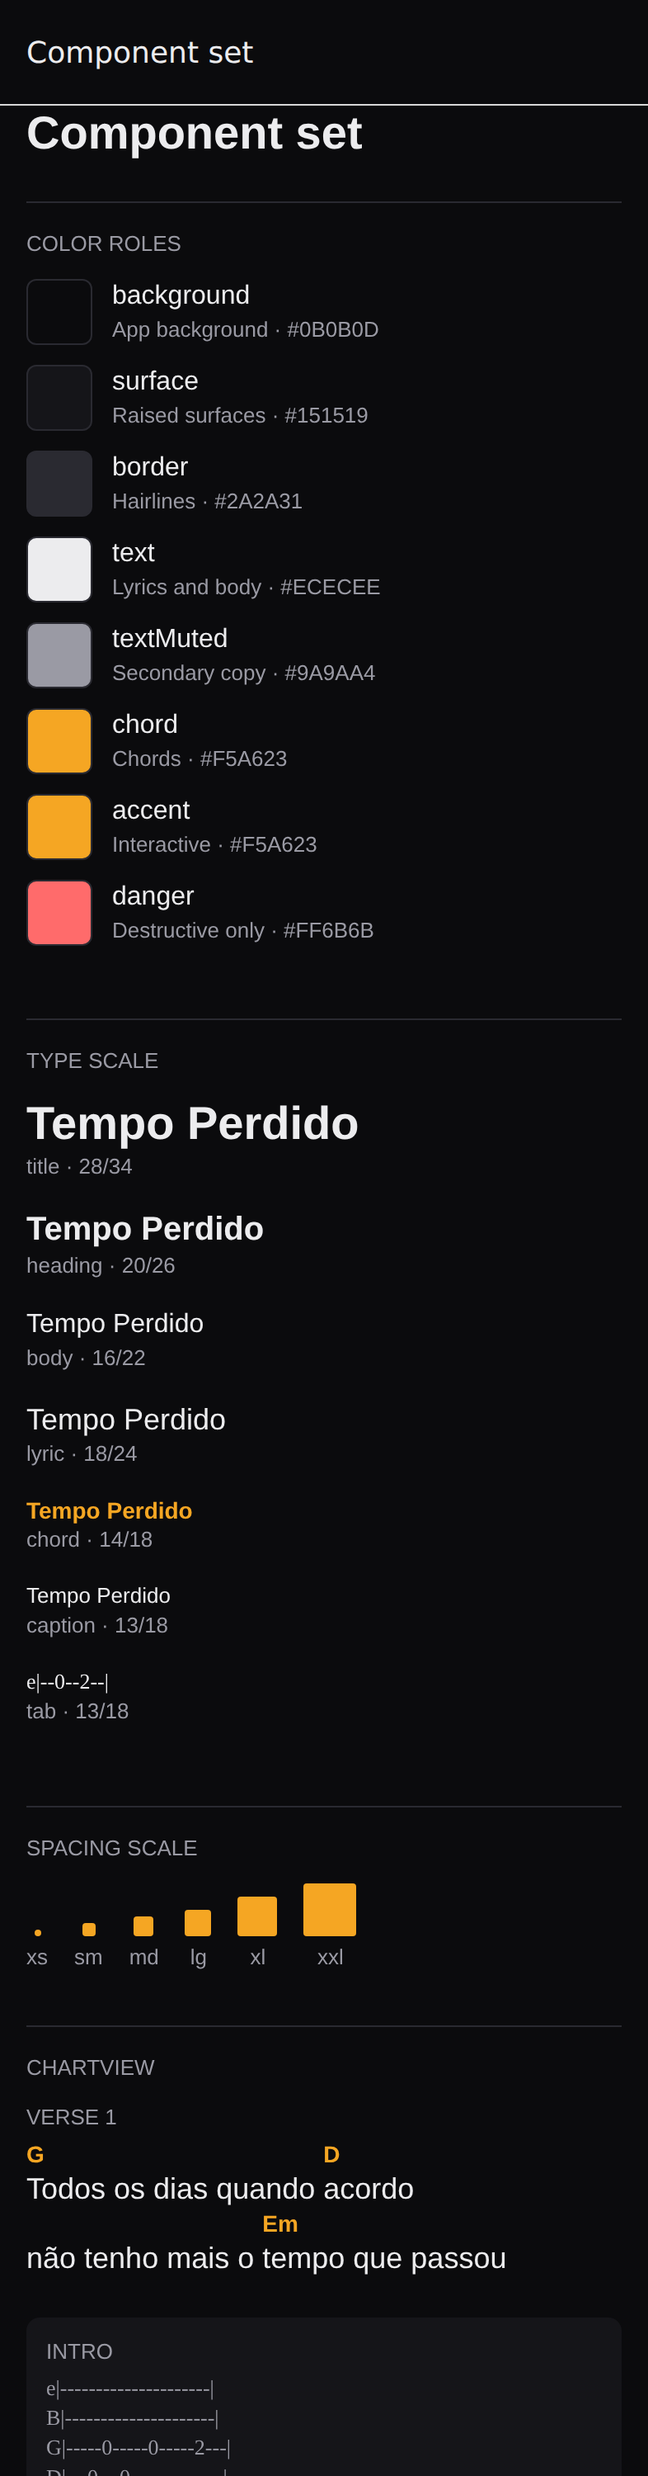
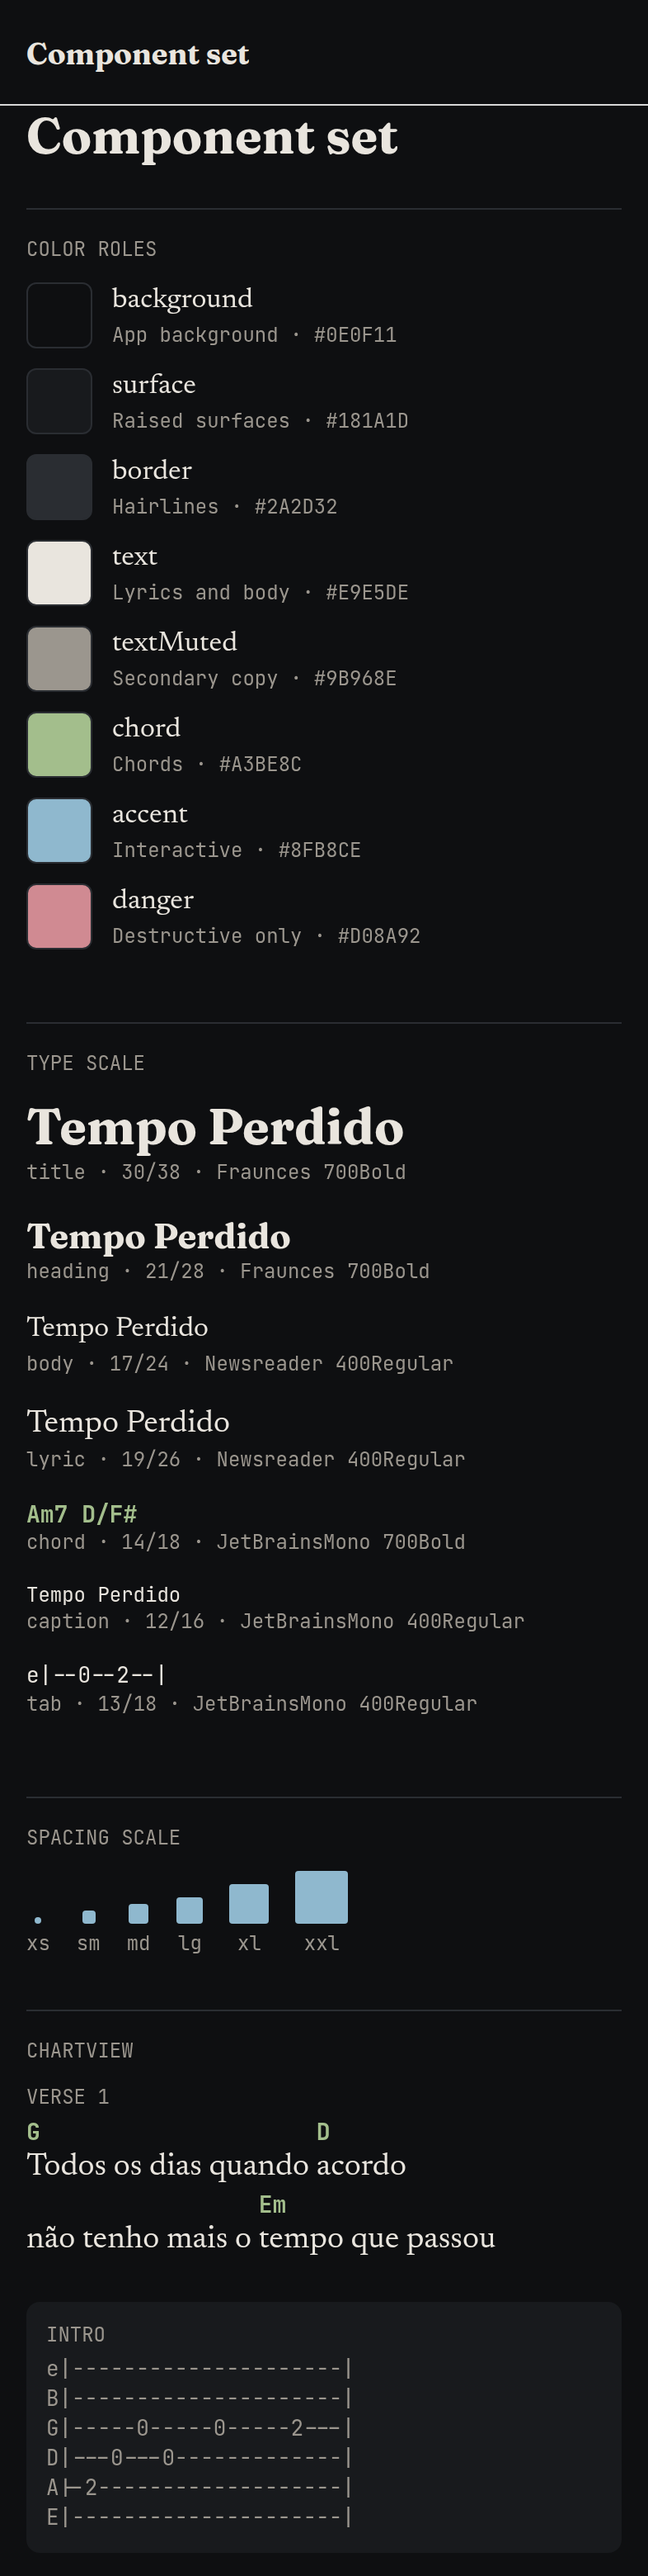
feat(mobile): replace the palette and adopt real typefaces
The system sans and the orange accent both made the app read as generic. Two
changes, one intent: give qtdn a voice instead of a default.

Typefaces are assigned by what the text is, not where it sits. Fraunces for
display, because a variable serif with character in its shapes is the cheapest
way for an app to sound like something. Newsreader for lyrics, which is the text
you read continuously while your hands are busy. JetBrains Mono for chords and
tabs, because both are notation rather than prose — one monospaced voice makes
that distinction visible, and chord glyphs get predictable width above the lyric.

Weight lives in the family name, since each weight is a separately loaded file;
pairing these with fontWeight would synthesize bold on top of bold.

The palette drops orange entirely and warms the greys toward paper rather than
slate, so a screen of lyrics reads like a songbook at night. Chords are sage and
interactive affordances are blue — previously both were the same orange, which
meant the one color that should say "chord" also said "button". Every role is
measured against the background and clears WCAG AA; the ratios are recorded
beside each value.

Fonts load in the root layout behind the splash screen, and a load failure hides
the splash anyway rather than leaving the user staring at it.

Claude-Session: https://claude.ai/code/session_01UvwVhADZoQ7MJJbPAnnoZA

diff --git a/apps/mobile/src/ui/tokens.ts b/apps/mobile/src/ui/tokens.ts
@@ -2,29 +2,36 @@
  * The design system's single source of truth.
  *
  * This is the only file in the app permitted to contain a raw color literal; the
- * `qtdn/design-tokens` lint rule rejects them everywhere else. Names are semantic
- * (`color.chord`, not `orange500`) so re-theming is a change here and nowhere else.
+ * design-token lint rule rejects them everywhere else. Names are semantic
+ * (`color.chord`, not `sage500`) so re-theming is a change here and nowhere else.
  *
  * Dark-first: qtdn is read at arm's length, in dim rooms, while both hands are busy.
  */
 
+/**
+ * Palette.
+ *
+ * Warm rather than clinical — the greys lean toward paper, not toward slate, so a
+ * screen full of lyrics reads like a songbook at night instead of a terminal.
+ * Contrast ratios are measured against `background` and all clear WCAG AA (4.5:1).
+ */
 export const color = {
-  /** App background. Near-black rather than pure black, to soften OLED smearing. */
-  background: '#0B0B0D',
-  /** Raised surfaces: cards, sheets, the keyboard accessory bar. */
-  surface: '#151519',
+  /** App background. Near-black, slightly warm, to soften OLED smearing. */
+  background: '#0E0F11',
+  /** Raised surfaces: tab blocks, cards, sheets, the keyboard accessory bar. */
+  surface: '#181A1D',
   /** Hairlines and dividers. */
-  border: '#2A2A31',
-  /** Lyrics and body copy. 13.9:1 on `background`. */
-  text: '#ECECEE',
-  /** Secondary copy: folder counts, timestamps, section labels. 5.6:1 on `background`. */
-  textMuted: '#9A9AA4',
-  /** Chords. The one saturated color in the app, so the eye finds them instantly. */
-  chord: '#F5A623',
-  /** Interactive accent: primary buttons, selection, the auto-scroll control. */
-  accent: '#F5A623',
-  /** Destructive actions only. */
-  danger: '#FF6B6B',
+  border: '#2A2D32',
+  /** Lyrics and body copy. Warm off-white — paper, not printer paper. 15.3:1. */
+  text: '#E9E5DE',
+  /** Secondary copy: folder counts, timestamps, section labels. 6.5:1. */
+  textMuted: '#9B968E',
+  /** Chords. The one color in the app that means "chord" and nothing else. 9.4:1. */
+  chord: '#A3BE8C',
+  /** Interactive only: buttons, selection, the auto-scroll control. 9.1:1. */
+  accent: '#8FB8CE',
+  /** Destructive actions only. 7.1:1. */
+  danger: '#D08A92',
 } as const;
 
 /** 4pt base scale. Every margin and padding in the app comes from here. */
@@ -47,20 +54,43 @@ export const radius = {
 export const HIT_SLOP = 44;
 
 /**
+ * Typefaces, assigned by what the text *is* rather than by where it sits.
+ *
+ * - Fraunces for display. A variable serif with real character in its shapes, so the
+ *   app has a voice instead of defaulting to the system sans.
+ * - Newsreader for prose. Warm, high-legibility serif for lyrics, which is the text
+ *   you read continuously while your hands are busy.
+ * - JetBrains Mono for notation. Chords and tabs are both notation rather than prose,
+ *   and giving them one monospaced voice makes that distinction visible — with the
+ *   side benefit that chord glyphs occupy predictable width above the lyric.
+ *
+ * Weight lives in the family name because each weight is a separately loaded file.
+ * Never pair these with `fontWeight`: that triggers synthetic bolding on top of an
+ * already-bold face.
+ */
+export const fontFamily = {
+  display: 'Fraunces_700Bold',
+  prose: 'Newsreader_400Regular',
+  proseMedium: 'Newsreader_500Medium',
+  notation: 'JetBrainsMono_700Bold',
+  notationRegular: 'JetBrainsMono_400Regular',
+} as const;
+
+/**
  * The type scale. `Text` accepts only these variant names, which is what stops screens
  * from inventing one-off sizes.
  */
 export const typography = {
-  title: { fontSize: 28, lineHeight: 34, fontWeight: '700' },
-  heading: { fontSize: 20, lineHeight: 26, fontWeight: '600' },
-  body: { fontSize: 16, lineHeight: 22, fontWeight: '400' },
-  caption: { fontSize: 13, lineHeight: 18, fontWeight: '400' },
+  title: { fontFamily: fontFamily.display, fontSize: 30, lineHeight: 38 },
+  heading: { fontFamily: fontFamily.display, fontSize: 21, lineHeight: 28 },
+  body: { fontFamily: fontFamily.prose, fontSize: 17, lineHeight: 24 },
+  caption: { fontFamily: fontFamily.notationRegular, fontSize: 12, lineHeight: 16 },
   /** Lyrics on the playing screen: larger than body, readable at arm's length. */
-  lyric: { fontSize: 18, lineHeight: 24, fontWeight: '400' },
-  /** Chord glyphs. Bold and tight so they sit clearly above the lyric. */
-  chord: { fontSize: 14, lineHeight: 18, fontWeight: '700' },
+  lyric: { fontFamily: fontFamily.prose, fontSize: 19, lineHeight: 26 },
+  /** Chord glyphs. Bold monospace so they sit clearly above the lyric. */
+  chord: { fontFamily: fontFamily.notation, fontSize: 14, lineHeight: 18 },
   /** Tab blocks. Monospace is not a style choice here — alignment is the content. */
-  tab: { fontSize: 13, lineHeight: 18, fontWeight: '400', fontFamily: 'Menlo' },
+  tab: { fontFamily: fontFamily.notationRegular, fontSize: 13, lineHeight: 18 },
 } as const;
 
 export type TypeVariant = keyof typeof typography;

diff --git a/apps/mobile/app/_layout.tsx b/apps/mobile/app/_layout.tsx
@@ -1,10 +1,30 @@
+import { useFonts } from 'expo-font';
 import { Stack } from 'expo-router';
+import * as SplashScreen from 'expo-splash-screen';
 import { StatusBar } from 'expo-status-bar';
+import { useEffect } from 'react';
 import { SafeAreaProvider } from 'react-native-safe-area-context';
 
+import { FONTS } from '@/ui/fonts';
 import { color } from '@/ui/tokens';
 
+void SplashScreen.preventAutoHideAsync();
+
 export default function RootLayout() {
+  const [fontsLoaded, fontError] = useFonts(FONTS);
+
+  useEffect(() => {
+    // Hide on error too: a missing font should degrade to a system fallback, not
+    // leave the user staring at a splash screen forever.
+    if (fontsLoaded || fontError) {
+      void SplashScreen.hideAsync();
+    }
+  }, [fontsLoaded, fontError]);
+
+  if (!fontsLoaded && !fontError) {
+    return null;
+  }
+
   return (
     <SafeAreaProvider>
       <StatusBar style="light" />
@@ -12,6 +32,7 @@ export default function RootLayout() {
         screenOptions={{
           headerStyle: { backgroundColor: color.background },
           headerTintColor: color.text,
+          headerTitleStyle: { fontFamily: 'Fraunces_700Bold' },
           contentStyle: { backgroundColor: color.background },
         }}
       />

diff --git a/apps/mobile/app/gallery.tsx b/apps/mobile/app/gallery.tsx
@@ -71,10 +71,11 @@ export default function Gallery() {
           {TYPE_VARIANTS.map((variant) => (
             <View key={variant} style={styles.typeRow}>
               <Text variant={variant} tone={variant === 'chord' ? 'chord' : 'text'}>
-                {variant === 'tab' ? 'e|--0--2--|' : 'Tempo Perdido'}
+                {variant === 'tab' ? 'e|--0--2--|' : variant === 'chord' ? 'Am7 D/F#' : 'Tempo Perdido'}
               </Text>
               <Text variant="caption" tone="textMuted">
-                {variant} · {typography[variant].fontSize}/{typography[variant].lineHeight}
+                {variant} · {typography[variant].fontSize}/{typography[variant].lineHeight} ·{' '}
+                {typography[variant].fontFamily.replace(/_/g, ' ')}
               </Text>
             </View>
           ))}

diff --git a/apps/mobile/src/ui/fonts.ts b/apps/mobile/src/ui/fonts.ts
@@ -1,0 +1,18 @@
+import { Fraunces_700Bold } from '@expo-google-fonts/fraunces';
+import { JetBrainsMono_400Regular, JetBrainsMono_700Bold } from '@expo-google-fonts/jetbrains-mono';
+import { Newsreader_400Regular, Newsreader_500Medium } from '@expo-google-fonts/newsreader';
+
+/**
+ * Every font file the app loads, keyed by the family name the tokens refer to.
+ *
+ * Kept beside the tokens so adding a weight is one edit in each file and nowhere else.
+ * Text renders as invisible until these resolve, which is why the root layout holds the
+ * splash screen until loading settles.
+ */
+export const FONTS = {
+  Fraunces_700Bold,
+  Newsreader_400Regular,
+  Newsreader_500Medium,
+  JetBrainsMono_400Regular,
+  JetBrainsMono_700Bold,
+} as const;
